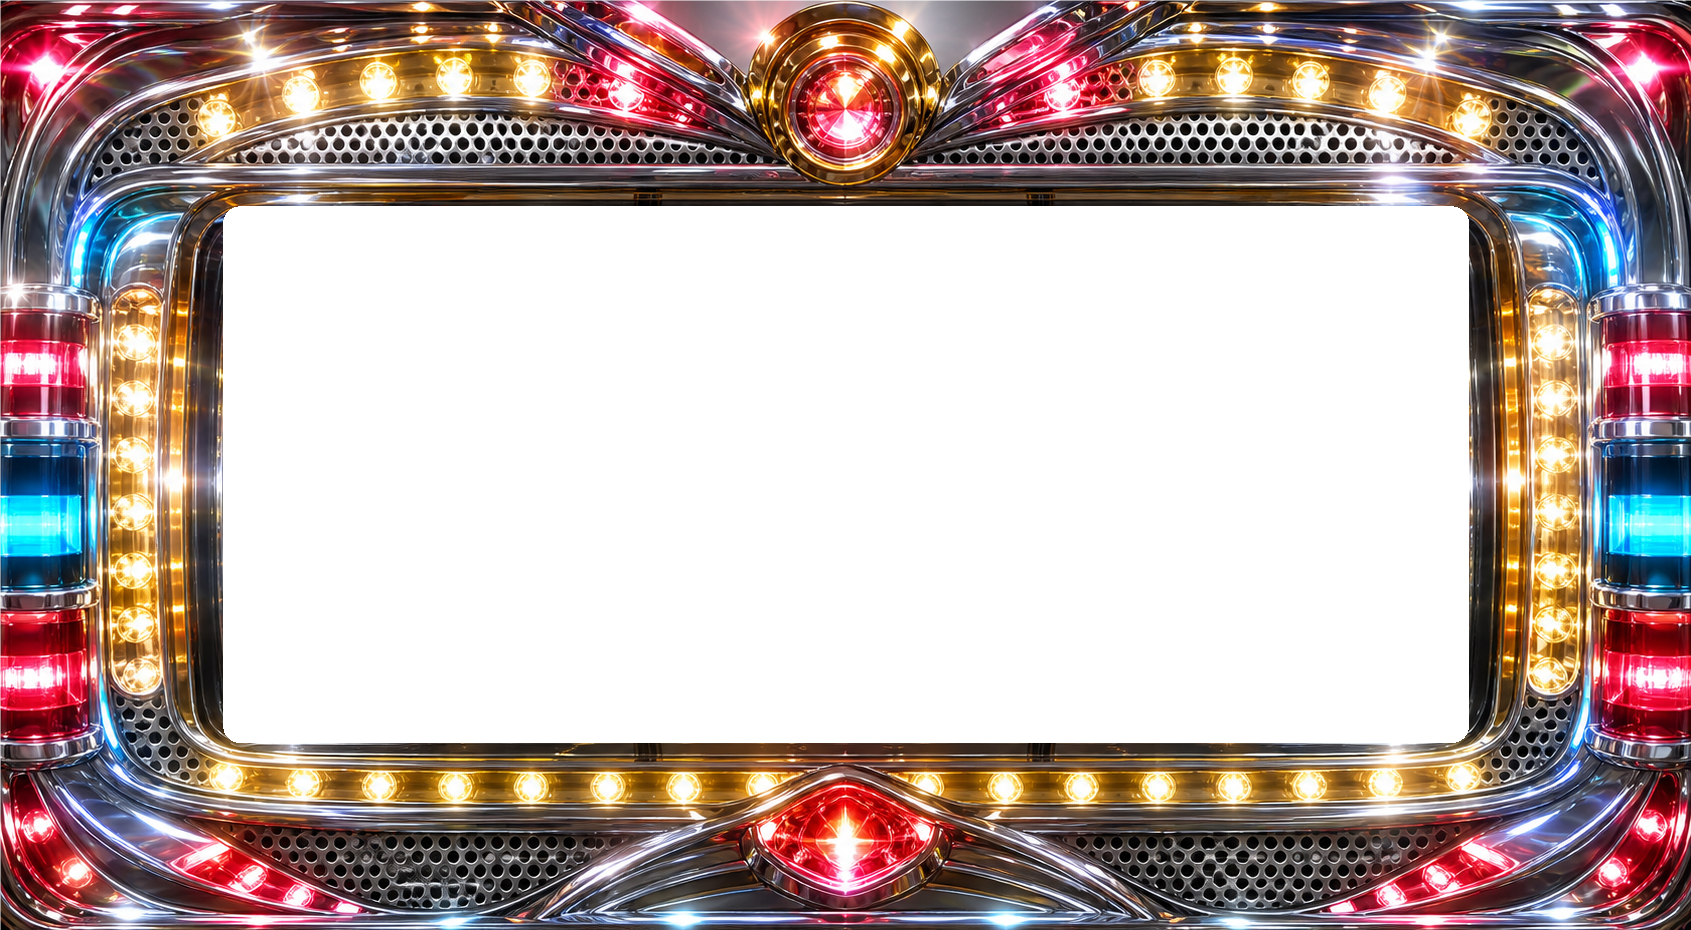
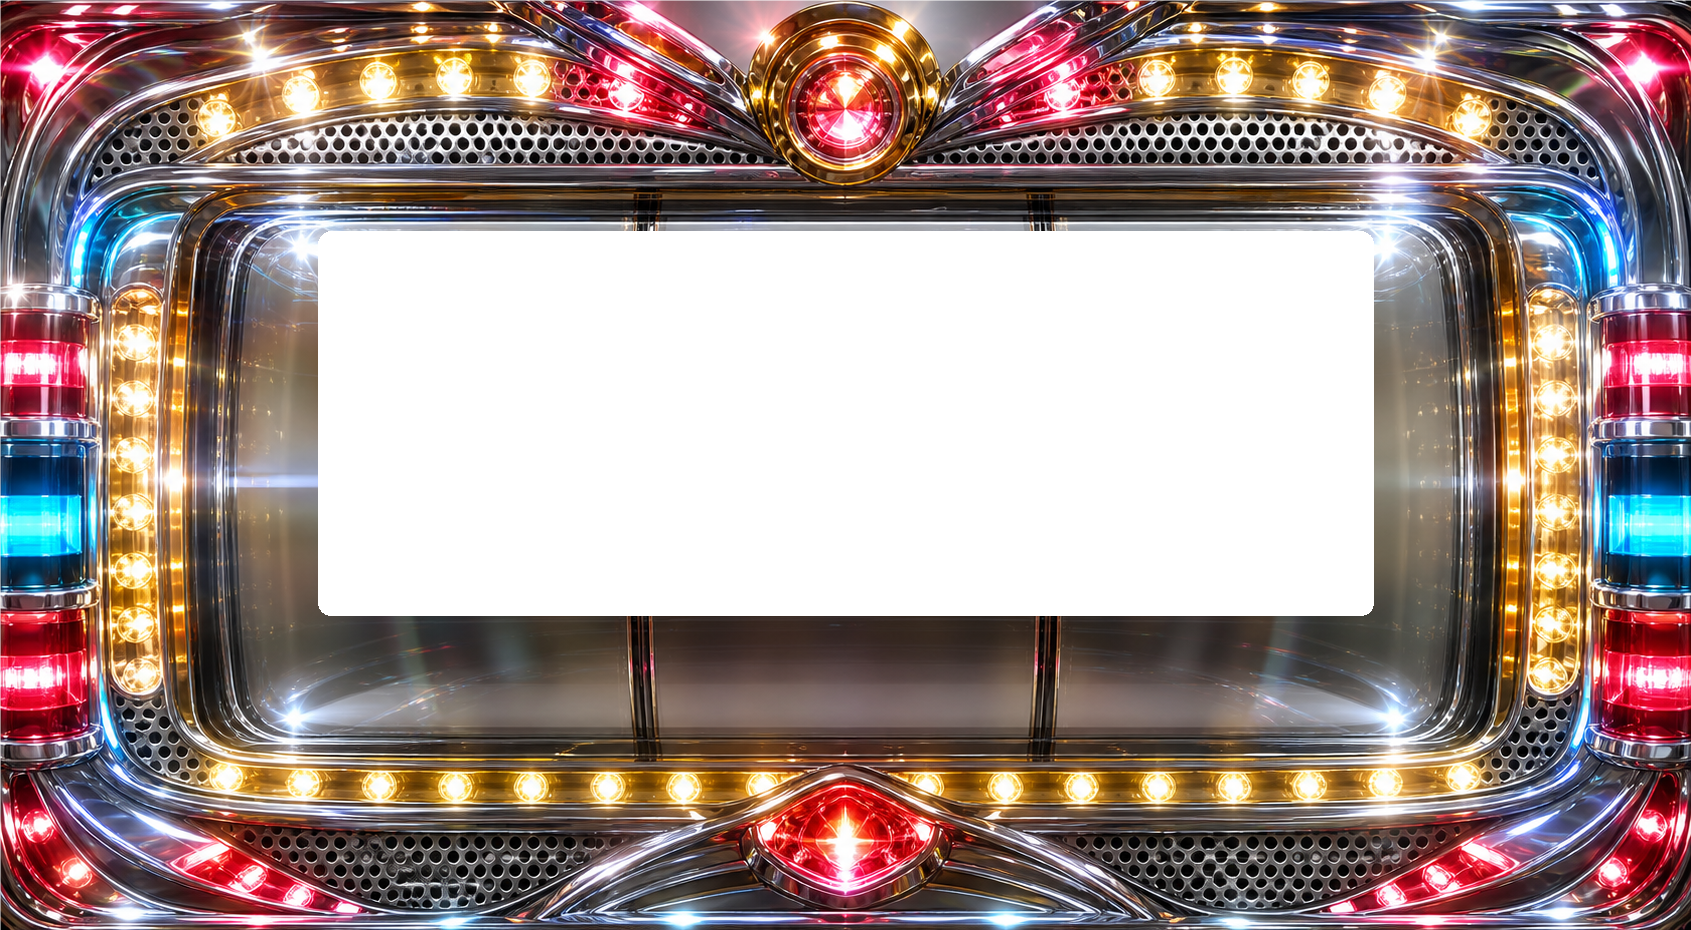
Constrain roulette to frame window

Changed region(s): [[0.123, 0.2183, 0.8918, 0.8108]]

diff --git a/styles.css b/styles.css
@@ -148,10 +148,10 @@ h1 {
 }
 
 .wheel-wrap {
-  --screen-left: 13.2%;
-  --screen-top: 22.2%;
-  --screen-width: 73.6%;
-  --screen-height: 57.6%;
+  --screen-left: 18.8%;
+  --screen-top: 24.8%;
+  --screen-width: 62.4%;
+  --screen-height: 41.3%;
   position: relative;
   box-sizing: border-box;
   width: 100%;
@@ -216,7 +216,28 @@ h1 {
 }
 
 body.jackpot .wheel-wrap {
-  animation: cabinetRapture 900ms ease-out;
+  animation: cabinetRapture 520ms ease-in-out infinite;
+}
+
+body.jackpot .stage {
+  animation: stageShake 180ms linear infinite;
+}
+
+body.jackpot .reel-art-frame {
+  filter:
+    brightness(1.24)
+    saturate(1.45)
+    drop-shadow(0 0 18px rgba(255, 45, 36, .95))
+    drop-shadow(0 0 34px rgba(255, 212, 71, .85));
+}
+
+body.jackpot .reel-screen {
+  box-shadow:
+    inset 0 0 0 1px rgba(255, 255, 255, .68),
+    inset 0 0 0 6px rgba(255, 45, 36, .22),
+    inset 0 0 42px rgba(255, 212, 71, .32),
+    0 0 26px rgba(255, 45, 36, .75),
+    0 0 48px rgba(255, 212, 71, .52);
 }
 
 canvas {
@@ -253,13 +274,17 @@ canvas {
 
 body.jackpot .light-rig {
   animation: lightChase 220ms linear infinite;
-  filter: drop-shadow(0 0 16px rgba(255, 45, 36, 1)) drop-shadow(0 0 24px rgba(255, 212, 71, .9));
+  opacity: .96;
+  filter:
+    drop-shadow(0 0 18px rgba(255, 45, 36, 1))
+    drop-shadow(0 0 30px rgba(255, 212, 71, .98))
+    drop-shadow(0 0 44px rgba(55, 230, 255, .72));
 }
 
 .pointer {
   position: absolute;
-  top: 51%;
-  left: 9.8%;
+  top: 45.5%;
+  left: 13.8%;
   z-index: 5;
   width: 46px;
   height: 62px;
@@ -446,20 +471,31 @@ body.jackpot h2 {
 }
 
 @keyframes blissBurst {
-  0% { opacity: 0; transform: scale(.22) rotate(0deg); }
-  14% { opacity: .98; transform: scale(1.1) rotate(16deg); }
-  100% { opacity: 0; transform: scale(2.8) rotate(70deg); }
+  0% { opacity: 0; transform: scale(.18) rotate(0deg); filter: saturate(1); }
+  12% { opacity: 1; transform: scale(1.18) rotate(22deg); filter: saturate(2.4) brightness(1.4); }
+  100% { opacity: 0; transform: scale(3.4) rotate(92deg); filter: saturate(2) brightness(1.15); }
 }
 
 @keyframes cabinetRapture {
-  0% { transform: scale(1); }
-  20% { transform: scale(1.025) rotate(.2deg); }
-  40% { transform: scale(1.01) rotate(-.15deg); }
-  100% { transform: scale(1); }
+  0% { transform: translate(0, 0) scale(1) rotate(0deg); }
+  18% { transform: translate(3px, -2px) scale(1.02) rotate(.28deg); }
+  36% { transform: translate(-3px, 2px) scale(1.012) rotate(-.24deg); }
+  58% { transform: translate(2px, 2px) scale(1.026) rotate(.18deg); }
+  78% { transform: translate(-2px, -1px) scale(1.01) rotate(-.2deg); }
+  100% { transform: translate(0, 0) scale(1) rotate(0deg); }
 }
 
 @keyframes lightChase {
-  to { background-position: 44px 0; }
+  to { background-position: 88px 0; }
+}
+
+@keyframes stageShake {
+  0% { transform: translate(0, 0); }
+  20% { transform: translate(2px, -1px); }
+  40% { transform: translate(-2px, 1px); }
+  60% { transform: translate(1px, 2px); }
+  80% { transform: translate(-1px, -2px); }
+  100% { transform: translate(0, 0); }
 }
 
 @keyframes pointerPulse {